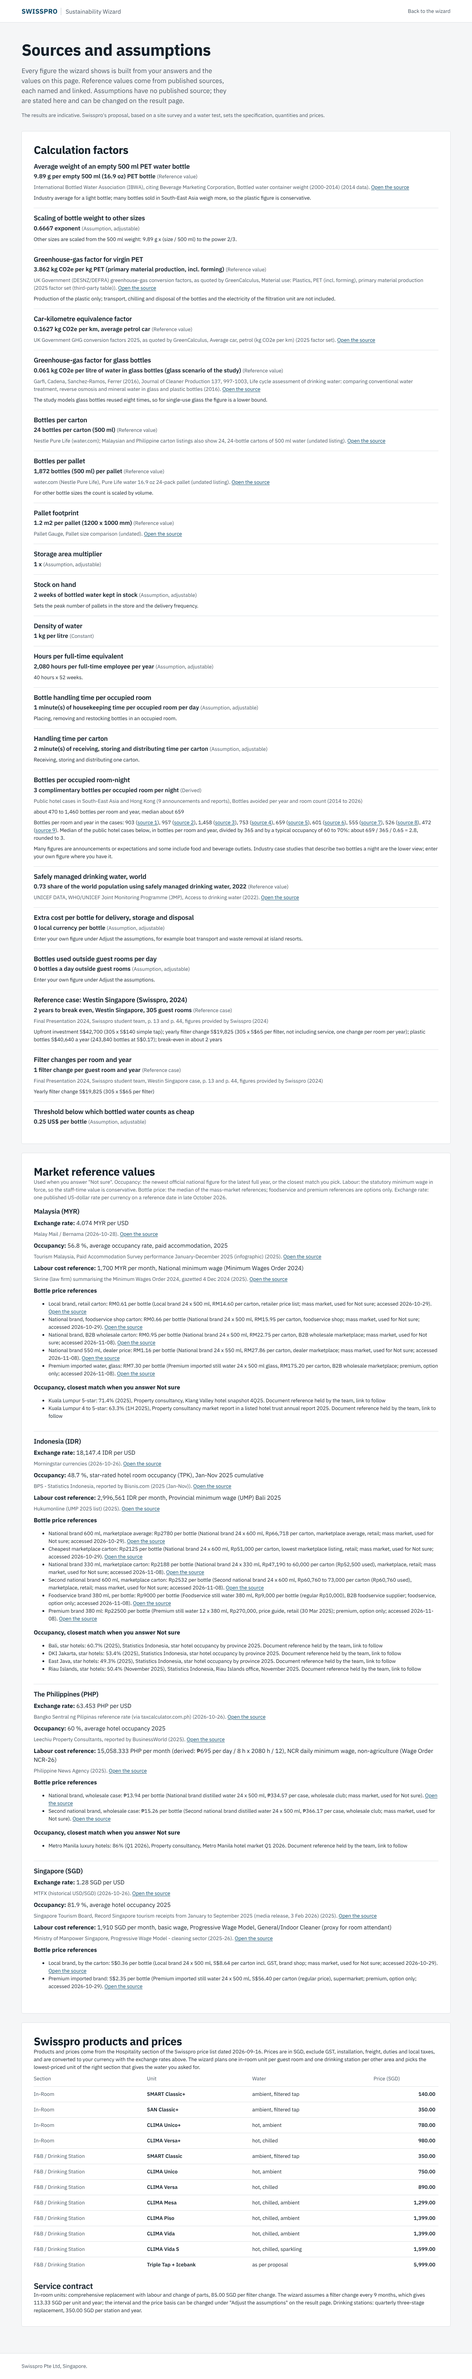
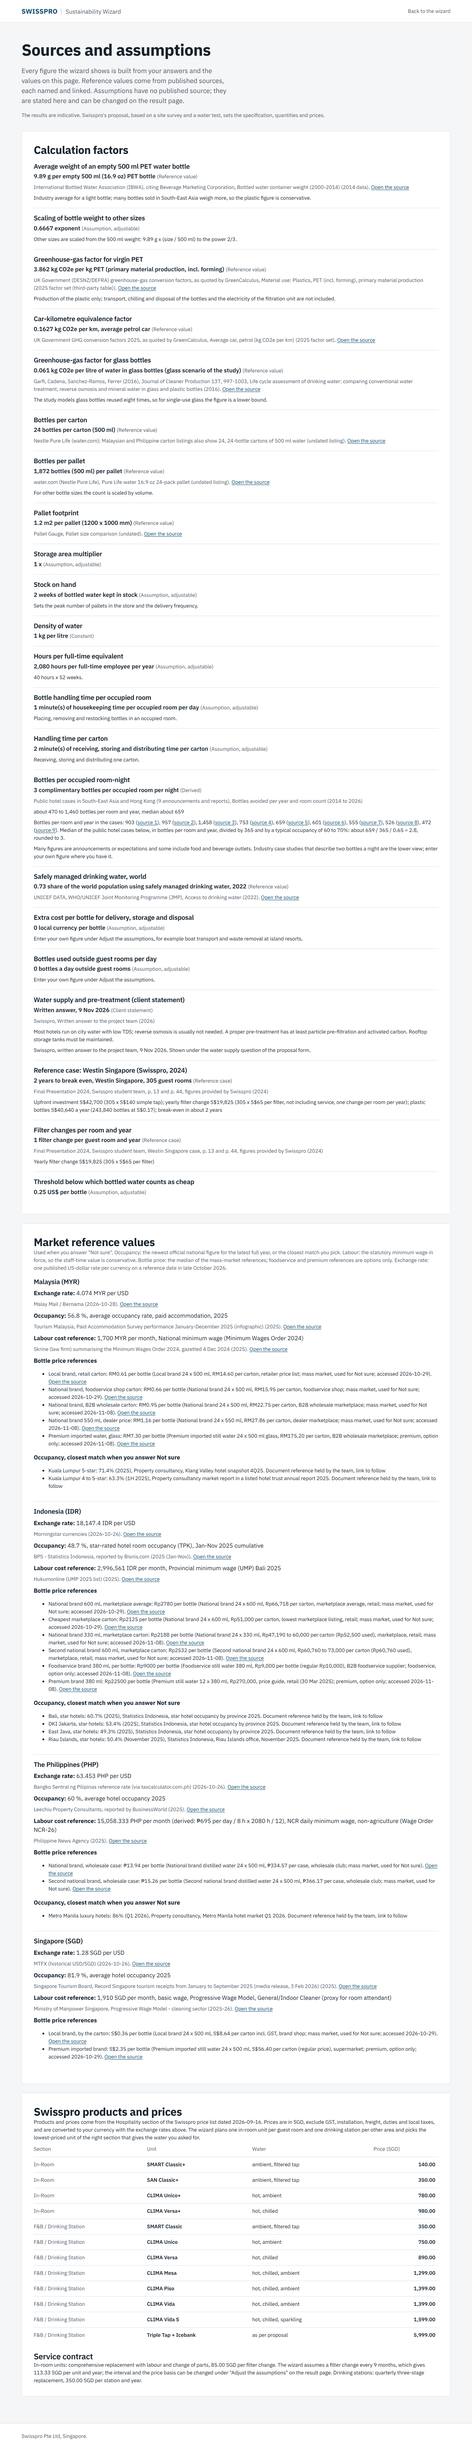
Water supply and pre-treatment (client statement, 9 Nov 2026): help text, pre-treatment check for own wells, storage-tank argument
Claude-Session: https://claude.ai/code/session_01APodsUFWSb661S1TCdvVpy

diff --git a/artifact/wizard.html b/artifact/wizard.html
@@ -506,6 +506,11 @@ table.products td:nth-child(3) { width: 30%; }
     },
     extra_cost_per_bottle_default: { value: 0, unit: 'local currency per bottle', kind: 'assumption', label: 'Extra cost per bottle for delivery, storage and disposal', note: 'No published figure; 0 unless the hotel enters its own (for example boat transport and waste removal at island resorts). Added to the price per bottle in the savings.' },
     other_bottles_per_day_default: { value: 0, unit: 'bottles a day outside guest rooms', kind: 'assumption', label: 'Bottles used outside guest rooms per day', note: 'No published figure; 0 unless the hotel enters its own (meeting rooms, staff, outlets). Counted in bottles, plastic, CO2e and handling time, and as the saving of the drinking-station block.' },
+    client_water_pretreatment_2026: {
+      value: 'Written answer, 9 Nov 2026', unit: '', kind: 'client-statement', status: 'client-reported', label: 'Water supply and pre-treatment (client statement)',
+      source: { publisher: 'Swisspro', title: 'Written answer to the project team', quote: 'Most hotels run on city water with low TDS; reverse osmosis is usually not needed. A proper pre-treatment has at least particle pre-filtration and activated carbon. Rooftop storage tanks must be maintained.', year: '2026', date: '2026-11-09' },
+      note: 'Swisspro, written answer to the project team, 9 Nov 2026. Used for the help text under the water supply question of the proposal form, the pre-treatment line for own wells or treatment plants, and the storage-tank argument.'
+    },
     westin_case_2024: {
       value: 2, unit: 'years to break even, Westin Singapore, 305 guest rooms', kind: 'sourced-secondary', label: 'Reference case: Westin Singapore (Swisspro, 2024)',
       source: { publisher: 'Final Presentation 2024, Swisspro student team', title: 'p. 13 and p. 44, figures provided by Swisspro', quote: 'Upfront investment S$42,700 (305 x S$140 simple tap); yearly filter change S$19,825 (305 x S$65 per filter, not including service, one change per room per year); plastic bottles S$40,640 a year (243,840 bottles at S$0.17); break-even in about 2 years', year: '2024' },
@@ -951,7 +956,7 @@ table.products td:nth-child(3) { width: 30%; }
     ] },
     { id: 'email', type: 'email', label: 'Work email', placeholder: 'Optional' },
     { id: 'phone', type: 'tel', label: 'Phone', placeholder: 'Optional' },
-    { id: 'source', type: 'select', label: 'Water supply', options: [
+    { id: 'source', type: 'select', label: 'Water supply', help: 'Most hotels run on city water with low TDS; reverse osmosis is usually not needed. A proper pre-treatment has at least particle pre-filtration and activated carbon. Rooftop storage tanks must be maintained.', rerender: true, options: [
       { id: '', label: 'Not sure' }, { id: 'mains', label: 'Municipal mains' }, { id: 'tank', label: 'Mains via storage tank' }, { id: 'well', label: 'Own well or treatment plant' }
     ] },
     { id: 'halal', type: 'select', label: 'Halal certificate', options: [
@@ -1185,6 +1190,14 @@ table.products td:nth-child(3) { width: 30%; }
     return { order: order.map(function (k) { return args[k]; }), cheapWater: cheapWater, priceUsd: priceUsd };
   }
 
+  /* Notes from the water supply answer of the proposal form (client statement, 9 Nov 2026). */
+  function waterSupplyNotes(source) {
+    return {
+      result: source === 'well' ? 'Please check your pre-treatment (particle and activated carbon filtration) before installation.' : null,
+      argument: source === 'tank' ? 'A filter at the tap also covers the storage tanks and pipes after your pre-treatment.' : null
+    };
+  }
+
   function segment(a, overrides) {
     var lower = !!(overrides && overrides.inRoomTap && a.temps && a.temps !== 'ambient' && has(a.areas, 'rooms'));
     return { current: LABELS.current[a.current] || '-', areas: (a.areas || []).map(function (x) { return LABELS.areas[x] || x; }), temps: LABELS.temps[a.temps] || null, lowerCost: lower, tempsShown: lower ? LABELS.temps.ambient : (LABELS.temps[a.temps] || null) };
@@ -1195,7 +1208,7 @@ table.products td:nth-child(3) { width: 30%; }
     return { segment: segment(a, overrides), unitPlan: unitPlan(a, overrides), solutions: solutions(a, PL, overrides), alternative: alternative(a, PL, overrides), arguments: args.order, cheapWater: args.cheapWater, labels: LABELS };
   }
 
-  return { recommend: recommend, unitPlan: unitPlan, solutions: solutions, alternative: alternative, describe: describe, inRoomSolution: inRoomSolution, stationSolution: stationSolution, argumentOrder: argumentOrder, LABELS: LABELS, TEMP_LABEL: TEMP_LABEL };
+  return { recommend: recommend, unitPlan: unitPlan, solutions: solutions, alternative: alternative, describe: describe, inRoomSolution: inRoomSolution, stationSolution: stationSolution, argumentOrder: argumentOrder, waterSupplyNotes: waterSupplyNotes, LABELS: LABELS, TEMP_LABEL: TEMP_LABEL };
 });
 
 /* Business case for the owner (version 2.2). Pure functions, browser and Node.
@@ -1703,6 +1716,8 @@ table.products td:nth-child(3) { width: 30%; }
     root.appendChild(el('section', { class: 'verdict verdict-' + v.tone, id: 'lead' },
       el('p', { class: 'verdict-head', text: v.head }),
       v.sub ? el('p', { class: 'verdict-sub', text: v.sub }) : null));
+    var wsn = R.waterSupplyNotes(state.proposal.source);
+    if (wsn.result) root.appendChild(el('p', { class: 'notice', id: 'pretreatment', text: wsn.result }));
 
     var tiles = el('div', { class: 'tiles' }), pb0 = c.payback, pr0 = ctx.pr, all = ctx.calcAll;
     function tile(label, value, sub, cls) {
@@ -1969,6 +1984,7 @@ table.products td:nth-child(3) { width: 30%; }
     var ol = el('ol', { class: 'args' });
     args.order.forEach(function (x) {
       var li = el('li', {}, el('strong', { text: x.title }), ' ' + x.why);
+      if (x.key === 'safety' && R.waterSupplyNotes(state.proposal.source).argument) li.appendChild(el('span', { class: 'small args-note', id: 'tank-note', text: ' ' + R.waterSupplyNotes(state.proposal.source).argument }));
       if (x.key === 'safety' && args.cheapWater && note) li.appendChild(el('span', { class: 'small muted args-note' }, ' ' + ctx.n.country.name + ': ' + note.text + ' ', el('a', { href: note.url, target: '_blank', rel: 'noopener', text: note.source })));
       ol.appendChild(li);
     });
@@ -2082,6 +2098,7 @@ table.products td:nth-child(3) { width: 30%; }
     L.push('Wanted: ' + rec.segment.areas.join(', ') + (rec.segment.temps ? '; ' + rec.segment.temps + ' water in the room' : '') + '.');
     var extra = []; if (p.source) extra.push('Water supply: ' + (R.LABELS.source[p.source] || p.source)); if (p.halal) extra.push('Halal certificate requested'); if (p.timing) extra.push('Timing: ' + R.LABELS.timing[p.timing]); if (p.approval) extra.push('Approval by: ' + R.LABELS.approval[p.approval]);
     if (extra.length) L.push(extra.join('. ') + '.');
+    var wsNote = R.waterSupplyNotes(p.source).result; if (wsNote) L.push(wsNote);
     L.push('');
     L.push('Indicative figures per year');
     L.push('- Bottles avoided: ' + fmt.int(c.bottles.total) + ' (' + fmt.int(c.env.litres) + ' litres)');
@@ -2113,9 +2130,10 @@ table.products td:nth-child(3) { width: 30%; }
       var d = el('div', {});
       d.appendChild(el('label', { for: 'pf-' + f.id, text: f.label + (REQUIRED[f.id] ? '' : ' (optional)') }));
       if (f.type === 'select') {
-        var sel = el('select', { class: 'input', id: 'pf-' + f.id, onchange: function (e) { p[f.id] = e.target.value; save(); } });
+        var sel = el('select', { class: 'input', id: 'pf-' + f.id, onchange: function (e) { p[f.id] = e.target.value; save(); if (f.rerender) { renderResults(); var pr = document.getElementById('pf-' + f.id); if (pr) { pr.scrollIntoView({ block: 'center' }); pr.focus(); } } } });
         f.options.forEach(function (o) { var opt = el('option', { value: o.id, text: o.label }); if ((p[f.id] || '') === o.id) opt.selected = true; sel.appendChild(opt); });
         d.appendChild(sel);
+        if (f.help) d.appendChild(el('span', { class: 'hint', text: f.help }));
       } else {
         d.appendChild(el('input', { class: 'input', id: 'pf-' + f.id, type: f.type, placeholder: REQUIRED[f.id] ? 'Required' : '', required: REQUIRED[f.id] ? 'required' : null, autocomplete: f.id === 'email' ? 'email' : (f.id === 'name' ? 'name' : (f.id === 'phone' ? 'tel' : 'organization')), value: p[f.id] || '', oninput: function (e) { p[f.id] = e.target.value; save(); } }));
       }

diff --git a/artifact/sources.html b/artifact/sources.html
@@ -506,6 +506,11 @@ table.products td:nth-child(3) { width: 30%; }
     },
     extra_cost_per_bottle_default: { value: 0, unit: 'local currency per bottle', kind: 'assumption', label: 'Extra cost per bottle for delivery, storage and disposal', note: 'No published figure; 0 unless the hotel enters its own (for example boat transport and waste removal at island resorts). Added to the price per bottle in the savings.' },
     other_bottles_per_day_default: { value: 0, unit: 'bottles a day outside guest rooms', kind: 'assumption', label: 'Bottles used outside guest rooms per day', note: 'No published figure; 0 unless the hotel enters its own (meeting rooms, staff, outlets). Counted in bottles, plastic, CO2e and handling time, and as the saving of the drinking-station block.' },
+    client_water_pretreatment_2026: {
+      value: 'Written answer, 9 Nov 2026', unit: '', kind: 'client-statement', status: 'client-reported', label: 'Water supply and pre-treatment (client statement)',
+      source: { publisher: 'Swisspro', title: 'Written answer to the project team', quote: 'Most hotels run on city water with low TDS; reverse osmosis is usually not needed. A proper pre-treatment has at least particle pre-filtration and activated carbon. Rooftop storage tanks must be maintained.', year: '2026', date: '2026-11-09' },
+      note: 'Swisspro, written answer to the project team, 9 Nov 2026. Used for the help text under the water supply question of the proposal form, the pre-treatment line for own wells or treatment plants, and the storage-tank argument.'
+    },
     westin_case_2024: {
       value: 2, unit: 'years to break even, Westin Singapore, 305 guest rooms', kind: 'sourced-secondary', label: 'Reference case: Westin Singapore (Swisspro, 2024)',
       source: { publisher: 'Final Presentation 2024, Swisspro student team', title: 'p. 13 and p. 44, figures provided by Swisspro', quote: 'Upfront investment S$42,700 (305 x S$140 simple tap); yearly filter change S$19,825 (305 x S$65 per filter, not including service, one change per room per year); plastic bottles S$40,640 a year (243,840 bottles at S$0.17); break-even in about 2 years', year: '2024' },
@@ -748,7 +753,7 @@ table.products td:nth-child(3) { width: 30%; }
   (function () {
     var F = window.SW.factors, PL = window.SW.pricelist;
     function esc(s) { return String(s == null ? '' : s).replace(/[&<>"]/g, function (c) { return { '&': '&amp;', '<': '&lt;', '>': '&gt;', '"': '&quot;' }[c]; }); }
-    function kindWord(f) { return f.kind === 'assumption' ? 'Assumption, adjustable' : (f.kind === 'derived' ? 'Derived' : (f.kind === 'constant' ? 'Constant' : (f.kind === 'sourced-secondary' ? 'Reference case' : 'Reference value'))); }
+    function kindWord(f) { return f.kind === 'assumption' ? 'Assumption, adjustable' : (f.kind === 'derived' ? 'Derived' : (f.kind === 'constant' ? 'Constant' : (f.kind === 'sourced-secondary' ? 'Reference case' : (f.kind === 'client-statement' ? 'Client statement' : 'Reference value')))); }
     function src(s) { if (!s) return ''; return '<p class="small muted">' + esc(s.publisher || '') + (s.title ? ', ' + esc(s.title) : '') + (s.year ? ' (' + esc(s.year) + ')' : '') + (s.url ? '. <a href="' + esc(s.url) + '" rel="noopener">Open the source</a>' : '') + '</p>' + (s.url ? '' : (s.quote ? '<p class="small">' + esc(s.quote) + '</p>' : '')); }
     function val(v, unit) { if (typeof v === 'number') return (Math.abs(v) < 1 && v !== 0 ? String(Number(v.toPrecision(4))) : (Math.round(v * 1000) / 1000).toLocaleString('en-US')) + ' ' + esc(unit || ''); return esc(v) + ' ' + esc(unit || ''); }
     var PUBLIC_NOTES = {
@@ -762,6 +767,7 @@ table.products td:nth-child(3) { width: 30%; }
       stock_weeks_default: 'Sets the peak number of pallets in the store and the delivery frequency.',
       working_hours_per_fte_year: '40 hours x 52 weeks.',
       bottles_per_room_night_default: 'Many figures are announcements or expectations and some include food and beverage outlets. Industry case studies that describe two bottles a night are the lower view; enter your own figure where you have it.',
+      client_water_pretreatment_2026: 'Swisspro, written answer to the project team, 9 Nov 2026. Shown under the water supply question of the proposal form.',
       extra_cost_per_bottle_default: 'Enter your own figure under Adjust the assumptions, for example boat transport and waste removal at island resorts.',
       other_bottles_per_day_default: 'Enter your own figure under Adjust the assumptions.',
     };

diff --git a/js/app.js b/js/app.js
@@ -275,6 +275,8 @@
     root.appendChild(el('section', { class: 'verdict verdict-' + v.tone, id: 'lead' },
       el('p', { class: 'verdict-head', text: v.head }),
       v.sub ? el('p', { class: 'verdict-sub', text: v.sub }) : null));
+    var wsn = R.waterSupplyNotes(state.proposal.source);
+    if (wsn.result) root.appendChild(el('p', { class: 'notice', id: 'pretreatment', text: wsn.result }));
 
     var tiles = el('div', { class: 'tiles' }), pb0 = c.payback, pr0 = ctx.pr, all = ctx.calcAll;
     function tile(label, value, sub, cls) {
@@ -541,6 +543,7 @@
     var ol = el('ol', { class: 'args' });
     args.order.forEach(function (x) {
       var li = el('li', {}, el('strong', { text: x.title }), ' ' + x.why);
+      if (x.key === 'safety' && R.waterSupplyNotes(state.proposal.source).argument) li.appendChild(el('span', { class: 'small args-note', id: 'tank-note', text: ' ' + R.waterSupplyNotes(state.proposal.source).argument }));
       if (x.key === 'safety' && args.cheapWater && note) li.appendChild(el('span', { class: 'small muted args-note' }, ' ' + ctx.n.country.name + ': ' + note.text + ' ', el('a', { href: note.url, target: '_blank', rel: 'noopener', text: note.source })));
       ol.appendChild(li);
     });
@@ -654,6 +657,7 @@
     L.push('Wanted: ' + rec.segment.areas.join(', ') + (rec.segment.temps ? '; ' + rec.segment.temps + ' water in the room' : '') + '.');
     var extra = []; if (p.source) extra.push('Water supply: ' + (R.LABELS.source[p.source] || p.source)); if (p.halal) extra.push('Halal certificate requested'); if (p.timing) extra.push('Timing: ' + R.LABELS.timing[p.timing]); if (p.approval) extra.push('Approval by: ' + R.LABELS.approval[p.approval]);
     if (extra.length) L.push(extra.join('. ') + '.');
+    var wsNote = R.waterSupplyNotes(p.source).result; if (wsNote) L.push(wsNote);
     L.push('');
     L.push('Indicative figures per year');
     L.push('- Bottles avoided: ' + fmt.int(c.bottles.total) + ' (' + fmt.int(c.env.litres) + ' litres)');
@@ -685,9 +689,10 @@
       var d = el('div', {});
       d.appendChild(el('label', { for: 'pf-' + f.id, text: f.label + (REQUIRED[f.id] ? '' : ' (optional)') }));
       if (f.type === 'select') {
-        var sel = el('select', { class: 'input', id: 'pf-' + f.id, onchange: function (e) { p[f.id] = e.target.value; save(); } });
+        var sel = el('select', { class: 'input', id: 'pf-' + f.id, onchange: function (e) { p[f.id] = e.target.value; save(); if (f.rerender) { renderResults(); var pr = document.getElementById('pf-' + f.id); if (pr) { pr.scrollIntoView({ block: 'center' }); pr.focus(); } } } });
         f.options.forEach(function (o) { var opt = el('option', { value: o.id, text: o.label }); if ((p[f.id] || '') === o.id) opt.selected = true; sel.appendChild(opt); });
         d.appendChild(sel);
+        if (f.help) d.appendChild(el('span', { class: 'hint', text: f.help }));
       } else {
         d.appendChild(el('input', { class: 'input', id: 'pf-' + f.id, type: f.type, placeholder: REQUIRED[f.id] ? 'Required' : '', required: REQUIRED[f.id] ? 'required' : null, autocomplete: f.id === 'email' ? 'email' : (f.id === 'name' ? 'name' : (f.id === 'phone' ? 'tel' : 'organization')), value: p[f.id] || '', oninput: function (e) { p[f.id] = e.target.value; save(); } }));
       }

diff --git a/sources.html b/sources.html
@@ -4,7 +4,7 @@
   <meta charset="utf-8">
   <meta name="viewport" content="width=device-width, initial-scale=1">
   <title>Sources and assumptions - Swisspro Sustainability Wizard</title>
-  <link rel="stylesheet" href="styles.css?v=2.3">
+  <link rel="stylesheet" href="styles.css?v=2.3b">
   <link rel="icon" href="assets/favicon.svg" type="image/svg+xml">
 </head>
 <body>
@@ -25,13 +25,13 @@
     <section class="card" id="swisspro"></section>
   </main>
   <footer class="site-footer"><div class="wrap"><p class="muted">Swisspro Pte Ltd, Singapore.</p></div></footer>
-  <script src="js/factors.js?v=2.3"></script>
-  <script src="js/pricelist.js?v=2.3"></script>
+  <script src="js/factors.js?v=2.3b"></script>
+  <script src="js/pricelist.js?v=2.3b"></script>
   <script>
   (function () {
     var F = window.SW.factors, PL = window.SW.pricelist;
     function esc(s) { return String(s == null ? '' : s).replace(/[&<>"]/g, function (c) { return { '&': '&amp;', '<': '&lt;', '>': '&gt;', '"': '&quot;' }[c]; }); }
-    function kindWord(f) { return f.kind === 'assumption' ? 'Assumption, adjustable' : (f.kind === 'derived' ? 'Derived' : (f.kind === 'constant' ? 'Constant' : (f.kind === 'sourced-secondary' ? 'Reference case' : 'Reference value'))); }
+    function kindWord(f) { return f.kind === 'assumption' ? 'Assumption, adjustable' : (f.kind === 'derived' ? 'Derived' : (f.kind === 'constant' ? 'Constant' : (f.kind === 'sourced-secondary' ? 'Reference case' : (f.kind === 'client-statement' ? 'Client statement' : 'Reference value')))); }
     function src(s) { if (!s) return ''; return '<p class="small muted">' + esc(s.publisher || '') + (s.title ? ', ' + esc(s.title) : '') + (s.year ? ' (' + esc(s.year) + ')' : '') + (s.url ? '. <a href="' + esc(s.url) + '" rel="noopener">Open the source</a>' : '') + '</p>' + (s.url ? '' : (s.quote ? '<p class="small">' + esc(s.quote) + '</p>' : '')); }
     function val(v, unit) { if (typeof v === 'number') return (Math.abs(v) < 1 && v !== 0 ? String(Number(v.toPrecision(4))) : (Math.round(v * 1000) / 1000).toLocaleString('en-US')) + ' ' + esc(unit || ''); return esc(v) + ' ' + esc(unit || ''); }
     var PUBLIC_NOTES = {
@@ -45,6 +45,7 @@
       stock_weeks_default: 'Sets the peak number of pallets in the store and the delivery frequency.',
       working_hours_per_fte_year: '40 hours x 52 weeks.',
       bottles_per_room_night_default: 'Many figures are announcements or expectations and some include food and beverage outlets. Industry case studies that describe two bottles a night are the lower view; enter your own figure where you have it.',
+      client_water_pretreatment_2026: 'Swisspro, written answer to the project team, 9 Nov 2026. Shown under the water supply question of the proposal form.',
       extra_cost_per_bottle_default: 'Enter your own figure under Adjust the assumptions, for example boat transport and waste removal at island resorts.',
       other_bottles_per_day_default: 'Enter your own figure under Adjust the assumptions.',
     };

diff --git a/tools/walkthrough.js b/tools/walkthrough.js
@@ -18,7 +18,7 @@ const scenarios = {
   kl_luxury_150: { country: 'MY', rooms: '150', occupancy: 'default', current: 'glass_bought', bottlesPerRoomNight: '2', bottleSizeMl: '330', priceBand: 'custom', priceCustom: '2.50', areas: ['rooms', 'fnb', 'meetings'], temps: 'sparkling', _otherBottles: 40, _proposal: { name: 'Demo User', hotel: 'Demo Luxury Hotel Kuala Lumpur', email: 'demo@example.com', source: 'tank', halal: 'yes', timing: '3to12', approval: 'owner' }, _capex: 450000 },
   surabaya_select_250: { country: 'ID', rooms: '250', occupancy: 'default', current: 'pet_free', bottlesPerRoomNight: 'default', bottleSizeMl: '600', priceBand: 'unknown', areas: ['rooms', 'boh'], temps: 'cold', _proposal: { hotel: 'Demo Select Hotel Surabaya' } },
   kl_5star_200: { country: 'MY', rooms: '200', occupancy: 'default', occupancyRef: 'kl5', current: 'pet_free', bottlesPerRoomNight: 'default', bottleSizeMl: 'default', priceBand: 'unknown', areas: ['rooms'], temps: 'ambient', _proposal: { hotel: 'Demo Five-Star Hotel Kuala Lumpur' } },
-  manila_premium_300: { country: 'PH', rooms: '300', occupancy: 'default', current: 'pet_free', bottlesPerRoomNight: 'default', bottleSizeMl: 'default', priceBand: 'unknown', areas: ['rooms', 'fnb', 'meetings', 'boh'], temps: 'hotcold', _proposal: { hotel: 'Demo Premium Hotel Manila' } }
+  manila_premium_300: { country: 'PH', rooms: '300', occupancy: 'default', current: 'pet_free', bottlesPerRoomNight: 'default', bottleSizeMl: 'default', priceBand: 'unknown', areas: ['rooms', 'fnb', 'meetings', 'boh'], temps: 'hotcold', _proposal: { hotel: 'Demo Premium Hotel Manila', source: 'well' } }
 };
 
 (async () => {
@@ -120,6 +120,8 @@ const scenarios = {
       const prop = answers._proposal || {};
       for (const [k, v] of Object.entries(prop)) { const sel = await page.$(`select#pf-${k}`); if (sel) await page.selectOption(`#pf-${k}`, v); else if (await page.$(`#pf-${k}`)) await page.fill(`#pf-${k}`, v); }
       const details = await page.$$('details'); for (const d of details) { await d.evaluate(e => e.open = true); }
+      if (prop.source === 'well') { const ok = await page.evaluate(() => /Please check your pre-treatment/.test(document.body.innerText) && /Please check your pre-treatment/.test(window.SW.app.summaryText(window.SW.app.compute()))); if (!ok) errors.push('pre-treatment line missing for own well'); }
+      if (prop.source === 'tank') { if (!(await page.$('#tank-note'))) errors.push('storage-tank argument missing'); }
       const payback = await page.$$eval('.kv td', els => els.map(e => e.textContent.trim()));
       const summary = await page.evaluate(() => window.SW.app.summaryText(window.SW.app.compute()));
       ['perChange', 'pricelist', 'SWISPRO', 'no exact line', 'read as', 'localhost', '127.0.0.1'].forEach(bad => { if (summary.indexOf(bad) >= 0 && !(bad === '127.0.0.1')) errors.push('jargon in summary text: ' + bad); });

diff --git a/test/business.test.js b/test/business.test.js
@@ -111,7 +111,7 @@ test('five-year view crosses at the payback; per-room-per-month is arithmetic on
 test('5. provenance: every factor has provenance and the Westin case is in the register and on the sources page', () => {
   Object.keys(F.factors).forEach(k => {
     const f = F.factors[k];
-    assert.ok(['sourced', 'sourced-secondary', 'derived', 'assumption', 'constant'].includes(f.kind), k);
+    assert.ok(['sourced', 'sourced-secondary', 'client-statement', 'derived', 'assumption', 'constant'].includes(f.kind), k);
     assert.ok(f.source || f.note || f.kind === 'constant' || f.kind === 'derived', k + ' has no provenance');
   });
   const w = F.factors.westin_case_2024;
@@ -226,4 +226,18 @@ test('benchmark per country: defaults, 3 bottles with the closest-match occupanc
     out.push(code + ': defaults ' + y(d.cashPaybackYears) + ' / ' + y(d.fullPaybackYears) + ' | closest ' + y(c.cashPaybackYears) + ' / ' + y(c.fullPaybackYears) + ' | ' + (alt ? alt.tier : 'no reference') + ' ' + (p ? y(p.cashPaybackYears) + ' / ' + y(p.fullPaybackYears) : '-'));
   }
   console.log('    payback in years, cash / including staff time freed\n    ' + out.join('\n    '));
+});
+
+test('water supply (client statement, 9 Nov 2026): own well asks to check the pre-treatment, a storage tank adds an argument', () => {
+  const c = F.factors.client_water_pretreatment_2026;
+  assert.equal(c.kind, 'client-statement');
+  assert.equal(c.source.publisher, 'Swisspro');
+  assert.equal(c.source.date, '2026-11-09');
+  assert.equal(R.waterSupplyNotes('well').result, 'Please check your pre-treatment (particle and activated carbon filtration) before installation.');
+  assert.equal(R.waterSupplyNotes('well').argument, null);
+  assert.equal(R.waterSupplyNotes('tank').argument, 'A filter at the tap also covers the storage tanks and pipes after your pre-treatment.');
+  assert.equal(R.waterSupplyNotes('tank').result, null);
+  ['mains', '', undefined].forEach(v => assert.deepEqual(R.waterSupplyNotes(v), { result: null, argument: null }));
+  const Q = require('../js/questions.js');
+  assert.match(Q.proposalFields.find(f => f.id === 'source').help, /reverse osmosis is usually not needed/);
 });

diff --git a/js/factors.js b/js/factors.js
@@ -117,6 +117,11 @@
     },
     extra_cost_per_bottle_default: { value: 0, unit: 'local currency per bottle', kind: 'assumption', label: 'Extra cost per bottle for delivery, storage and disposal', note: 'No published figure; 0 unless the hotel enters its own (for example boat transport and waste removal at island resorts). Added to the price per bottle in the savings.' },
     other_bottles_per_day_default: { value: 0, unit: 'bottles a day outside guest rooms', kind: 'assumption', label: 'Bottles used outside guest rooms per day', note: 'No published figure; 0 unless the hotel enters its own (meeting rooms, staff, outlets). Counted in bottles, plastic, CO2e and handling time, and as the saving of the drinking-station block.' },
+    client_water_pretreatment_2026: {
+      value: 'Written answer, 9 Nov 2026', unit: '', kind: 'client-statement', status: 'client-reported', label: 'Water supply and pre-treatment (client statement)',
+      source: { publisher: 'Swisspro', title: 'Written answer to the project team', quote: 'Most hotels run on city water with low TDS; reverse osmosis is usually not needed. A proper pre-treatment has at least particle pre-filtration and activated carbon. Rooftop storage tanks must be maintained.', year: '2026', date: '2026-11-09' },
+      note: 'Swisspro, written answer to the project team, 9 Nov 2026. Used for the help text under the water supply question of the proposal form, the pre-treatment line for own wells or treatment plants, and the storage-tank argument.'
+    },
     westin_case_2024: {
       value: 2, unit: 'years to break even, Westin Singapore, 305 guest rooms', kind: 'sourced-secondary', label: 'Reference case: Westin Singapore (Swisspro, 2024)',
       source: { publisher: 'Final Presentation 2024, Swisspro student team', title: 'p. 13 and p. 44, figures provided by Swisspro', quote: 'Upfront investment S$42,700 (305 x S$140 simple tap); yearly filter change S$19,825 (305 x S$65 per filter, not including service, one change per room per year); plastic bottles S$40,640 a year (243,840 bottles at S$0.17); break-even in about 2 years', year: '2024' },

diff --git a/js/recommend.js b/js/recommend.js
@@ -111,6 +111,14 @@
     return { order: order.map(function (k) { return args[k]; }), cheapWater: cheapWater, priceUsd: priceUsd };
   }
 
+  /* Notes from the water supply answer of the proposal form (client statement, 9 Nov 2026). */
+  function waterSupplyNotes(source) {
+    return {
+      result: source === 'well' ? 'Please check your pre-treatment (particle and activated carbon filtration) before installation.' : null,
+      argument: source === 'tank' ? 'A filter at the tap also covers the storage tanks and pipes after your pre-treatment.' : null
+    };
+  }
+
   function segment(a, overrides) {
     var lower = !!(overrides && overrides.inRoomTap && a.temps && a.temps !== 'ambient' && has(a.areas, 'rooms'));
     return { current: LABELS.current[a.current] || '-', areas: (a.areas || []).map(function (x) { return LABELS.areas[x] || x; }), temps: LABELS.temps[a.temps] || null, lowerCost: lower, tempsShown: lower ? LABELS.temps.ambient : (LABELS.temps[a.temps] || null) };
@@ -121,5 +129,5 @@
     return { segment: segment(a, overrides), unitPlan: unitPlan(a, overrides), solutions: solutions(a, PL, overrides), alternative: alternative(a, PL, overrides), arguments: args.order, cheapWater: args.cheapWater, labels: LABELS };
   }
 
-  return { recommend: recommend, unitPlan: unitPlan, solutions: solutions, alternative: alternative, describe: describe, inRoomSolution: inRoomSolution, stationSolution: stationSolution, argumentOrder: argumentOrder, LABELS: LABELS, TEMP_LABEL: TEMP_LABEL };
+  return { recommend: recommend, unitPlan: unitPlan, solutions: solutions, alternative: alternative, describe: describe, inRoomSolution: inRoomSolution, stationSolution: stationSolution, argumentOrder: argumentOrder, waterSupplyNotes: waterSupplyNotes, LABELS: LABELS, TEMP_LABEL: TEMP_LABEL };
 });

diff --git a/index.html b/index.html
@@ -5,7 +5,7 @@
   <meta name="viewport" content="width=device-width, initial-scale=1">
   <title>Swisspro Sustainability Wizard</title>
   <meta name="description" content="Find out what replacing bottled water with Swisspro filtered drinking water means for your hotel: bottles, plastic, cost, staff time, payback and the set-up that fits.">
-  <link rel="stylesheet" href="styles.css?v=2.3">
+  <link rel="stylesheet" href="styles.css?v=2.3b">
   <link rel="icon" href="assets/favicon.svg" type="image/svg+xml">
 </head>
 <body>
@@ -32,14 +32,14 @@
     </div>
   </footer>
 
-  <script src="js/factors.js?v=2.3"></script>
-  <script src="js/engine.js?v=2.3"></script>
-  <script src="js/pricelist.js?v=2.3"></script>
-  <script src="js/questions.js?v=2.3"></script>
-  <script src="js/model.js?v=2.3"></script>
-  <script src="js/recommend.js?v=2.3"></script>
-  <script src="js/business.js?v=2.3"></script>
-  <script src="js/format.js?v=2.3"></script>
-  <script src="js/app.js?v=2.3"></script>
+  <script src="js/factors.js?v=2.3b"></script>
+  <script src="js/engine.js?v=2.3b"></script>
+  <script src="js/pricelist.js?v=2.3b"></script>
+  <script src="js/questions.js?v=2.3b"></script>
+  <script src="js/model.js?v=2.3b"></script>
+  <script src="js/recommend.js?v=2.3b"></script>
+  <script src="js/business.js?v=2.3b"></script>
+  <script src="js/format.js?v=2.3b"></script>
+  <script src="js/app.js?v=2.3b"></script>
 </body>
 </html>

diff --git a/js/questions.js b/js/questions.js
@@ -60,7 +60,7 @@
     ] },
     { id: 'email', type: 'email', label: 'Work email', placeholder: 'Optional' },
     { id: 'phone', type: 'tel', label: 'Phone', placeholder: 'Optional' },
-    { id: 'source', type: 'select', label: 'Water supply', options: [
+    { id: 'source', type: 'select', label: 'Water supply', help: 'Most hotels run on city water with low TDS; reverse osmosis is usually not needed. A proper pre-treatment has at least particle pre-filtration and activated carbon. Rooftop storage tanks must be maintained.', rerender: true, options: [
       { id: '', label: 'Not sure' }, { id: 'mains', label: 'Municipal mains' }, { id: 'tank', label: 'Mains via storage tank' }, { id: 'well', label: 'Own well or treatment plant' }
     ] },
     { id: 'halal', type: 'select', label: 'Halal certificate', options: [

diff --git a/test/model.test.js b/test/model.test.js
@@ -72,7 +72,7 @@ test('bottle price options: "not sure" first, every reference band, then custom'
 });
 
 test('register integrity: kinds, statuses, URLs, rules, assumption notes', () => {
-  const kinds = ['sourced', 'sourced-secondary', 'derived', 'assumption', 'constant'];
+  const kinds = ['sourced', 'sourced-secondary', 'client-statement', 'derived', 'assumption', 'constant'];
   Object.keys(F.factors).forEach(k => {
     const f = F.factors[k];
     assert.ok(kinds.includes(f.kind), k + ' kind');

diff --git a/docs/METHODOLOGY.md b/docs/METHODOLOGY.md
@@ -38,6 +38,8 @@ Occupancy when "Not sure": the national figure, or the closest match the hotel p
 14. Lead statement, first that is true: cash payback within the five-year view; else payback including staff time freed within five years; else positive yearly saving (cash, then including staff time); else lower cost per occupied room-night including staff time (investment spread over 3 years); else the benefits that hold: staff hours freed and their value, bottles and plastic avoided, and the market's share of safely managed drinking water when it is below the world share (WHO/UNICEF JMP). The lead and the top tiles never show "No payback" or a negative figure; the business case table below keeps every figure, and a neutral line says the proposal can include a service plan for the market.
 15. Drinking stations (restaurants and bars, meetings and events, staff areas): investment `= stations x lowest-priced F&B line with chilled water`, service `= stations x 350.00`, shown in their own block and never in the room payback. Bottles a day per area are optional ("Not sure" allowed). With a figure: station saving `= bottles a day x 365 x price per bottle`, station payback, and a combined payback for guest rooms and stations `= (room investment + station investment) / (all bottle spend - room service - station service)`. Without a figure the station cost is shown on its own.
 
+16. Water supply (optional proposal-form answer, no effect on the numbers): "Own well or treatment plant" shows "Please check your pre-treatment (particle and activated carbon filtration) before installation." under the lead and in the summary text; "Mains via storage tank" adds "A filter at the tap also covers the storage tanks and pipes after your pre-treatment." to the water-safety argument under More. Source: Swisspro, written answer to the project team, 9 Nov 2026 (client statement).
+
 ### Reference check: Westin Singapore (2024)
 305 rooms, 243,840 bottles a year at S$0.17 (S$40,640), basic tap: investment `305 x 140 = S$42,700`. With the price-list service line (85.00 per room and year) payback `= 42,700 / (40,640 - 25,925) = 2.9 years`; with the case's filter-only figure (65.00) `= 42,700 / (40,640 - 19,825) = 2.05 years`, matching the case's "break-even in about 2 years". Both are unit tests (`test/business.test.js`).
 
@@ -58,7 +60,7 @@ Solutions are named per price-list area: In-Room (ambient tap; chilled or hot-an
 
 ## Validation
 - 2,030 rooms at 81.9% occupancy and 2 bottles per room-night gives about 1.2 million bottles a year; Fairmont Singapore and Swissotel The Stamford report avoiding 1.5 million (hotel website).
-- 49 unit tests (including the per-country benchmark) (`npm test`) cover the Westin reproduction, the three scenarios' lead statements, the formulas, defaults, overrides, register integrity and recommendation rules; `node tools/walkthrough.js` drives the UI end-to-end in headless Chromium for three scenarios (Kuala Lumpur luxury 150 rooms existing, Surabaya select-service 250 rooms new build, Manila premium 300 rooms existing) on desktop and mobile, and fails on console errors, forbidden texts (filter ratings, lead score) or a missing "unverified" label.
+- 50 unit tests (including the per-country benchmark and the water-supply notes) (`npm test`) cover the Westin reproduction, the three scenarios' lead statements, the formulas, defaults, overrides, register integrity and recommendation rules; `node tools/walkthrough.js` drives the UI end-to-end in headless Chromium for three scenarios (Kuala Lumpur luxury 150 rooms existing, Surabaya select-service 250 rooms new build, Manila premium 300 rooms existing) on desktop and mobile, and fails on console errors, forbidden texts (filter ratings, lead score) or a missing "unverified" label.
 
 ## Known limitations
 - The price list lines were transcribed from the team's copy; the PDF itself is not in the repository yet.
